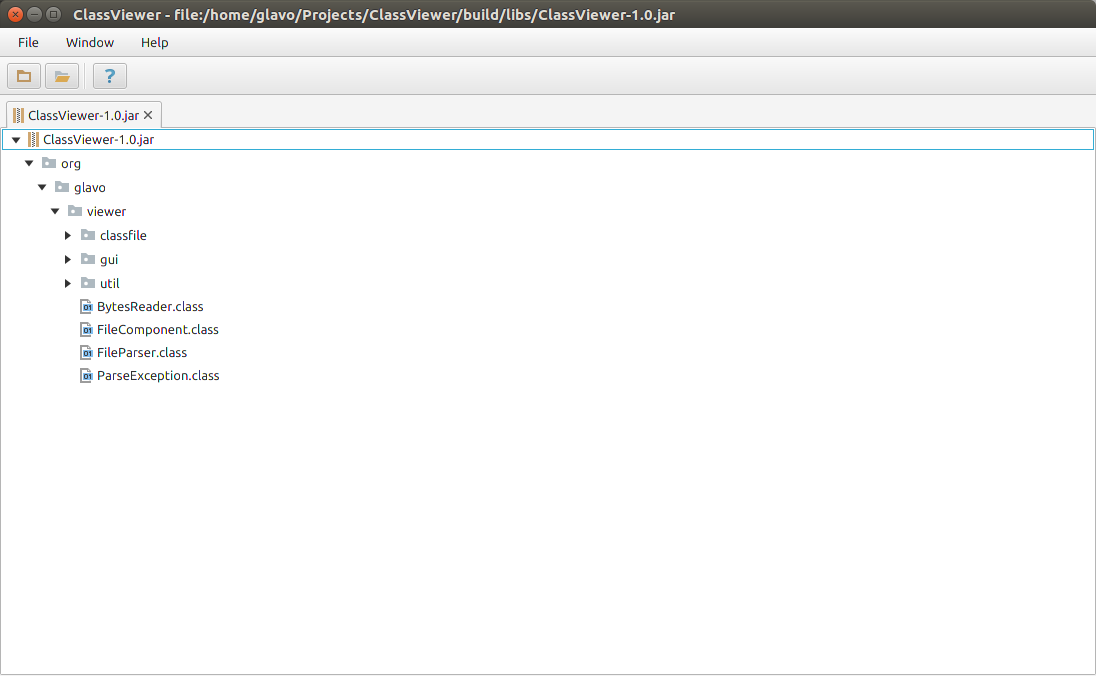
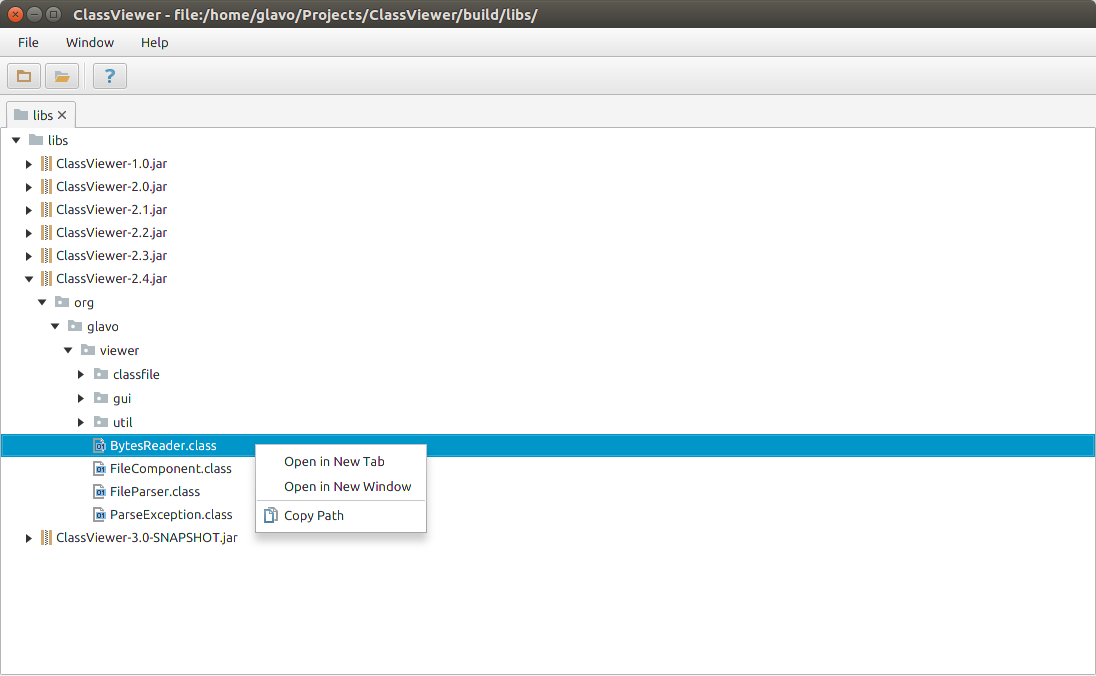
update

Changed region(s): [[0.0, 0.1553, 1.0, 0.8077], [0.4964, 0.0, 0.6204, 0.0311], [0.9927, 0.1864, 1.0, 0.2175]]

diff --git a/src/main/java/org/glavo/viewer/gui/ViewerMenuBar.java b/src/main/java/org/glavo/viewer/gui/ViewerMenuBar.java
@@ -1,0 +1,137 @@
+package org.glavo.viewer.gui;
+
+import javafx.scene.control.Menu;
+import javafx.scene.control.MenuBar;
+import javafx.scene.control.MenuItem;
+import javafx.scene.image.ImageView;
+import org.glavo.viewer.gui.support.ImageUtils;
+import org.glavo.viewer.gui.support.RecentFile;
+import org.glavo.viewer.gui.support.RecentFiles;
+
+import java.net.URL;
+import java.util.function.Consumer;
+
+/**
+ * ClassViewer menu bar.
+ * <p>
+ * File              Window        Help
+ * |-Open >         |-New Window  |-About
+ * |-Java Class...
+ * |-Java Jar...
+ * |-Open Recent >
+ */
+public final class ViewerMenuBar extends MenuBar {
+
+    private final Viewer viewer;
+
+    private Consumer<URL> onOpenFile;
+    private Consumer<URL> onOpenFolder;
+    private Runnable onNewWindow;
+
+    private FileMenu fileMenu;
+    private Menu windowMenu;
+    private Menu helpMenu;
+
+
+    public ViewerMenuBar(Viewer viewer) {
+        this.viewer = viewer;
+        this.fileMenu = new FileMenu();
+        this.windowMenu = new WindowMenu();
+        addHelpMenu();
+
+        getMenus().addAll(
+                fileMenu,
+                windowMenu,
+                helpMenu
+        );
+    }
+
+
+    private void addHelpMenu() {
+        MenuItem aboutMenuItem = new MenuItem("_About");
+        aboutMenuItem.setOnAction(e -> AboutDialog.showDialog());
+        aboutMenuItem.setMnemonicParsing(true);
+
+        Menu helpMenu = new Menu("_Help");
+        helpMenu.getItems().add(aboutMenuItem);
+        helpMenu.setMnemonicParsing(true);
+
+        getMenus().add(helpMenu);
+    }
+
+    public void setOnOpenFile(Consumer<URL> onOpenFile) {
+        this.onOpenFile = onOpenFile;
+    }
+
+    public void setOnOpenFolder(Consumer<URL> onOpenFolder) {
+        this.onOpenFolder = onOpenFolder;
+    }
+
+    public void setOnNewWindow(Runnable onNewWindow) {
+        this.onNewWindow = onNewWindow;
+    }
+
+
+    public class FileMenu extends Menu {
+        MenuItem openMenu;
+        MenuItem openFolderMenu;
+        Menu openRecentMenu;
+
+        FileMenu() {
+            super("_File");
+            this.openMenu = createOpenMenu();
+            this.openFolderMenu = createOpenFolderMenu();
+            this.openRecentMenu = createOpenRecentMenu();
+
+            getItems().addAll(
+                    openMenu,
+                    openFolderMenu,
+                    openRecentMenu
+            );
+            setMnemonicParsing(true);
+        }
+
+        private MenuItem createOpenMenu() {
+            MenuItem openMenu = new MenuItem("_Open...", new ImageView(ImageUtils.openFileImage));
+            openMenu.setOnAction(e -> onOpenFile.accept(null));
+            openMenu.setMnemonicParsing(true);
+            return openMenu;
+        }
+
+        private MenuItem createOpenFolderMenu() {
+            MenuItem openMenu = new MenuItem("Open Folder", new ImageView(ImageUtils.openFolderImage));
+            openMenu.setOnAction(e -> onOpenFolder.accept(null));
+            openMenu.setMnemonicParsing(true);
+            return openMenu;
+        }
+
+        private Menu createOpenRecentMenu() {
+            Menu recentMenu = new Menu("Open _Recent", ImageUtils.createImageView("/icons/clock.png"));
+            recentMenu.setMnemonicParsing(true);
+            this.openRecentMenu = recentMenu;
+            updateRecentFiles();
+            return recentMenu;
+        }
+
+        public void updateRecentFiles() {
+            openRecentMenu.getItems().clear();
+            for (RecentFile rf : RecentFiles.INSTANCE.getAll()) {
+                ImageView icon = new ImageView(rf.type.icon);
+                MenuItem menuItem = new MenuItem(rf.url.toString(), icon);
+                menuItem.setOnAction(e -> onOpenFile.accept(rf.url));
+                openRecentMenu.getItems().add(menuItem);
+            }
+        }
+
+    }
+
+    public class WindowMenu extends Menu {
+        MenuItem newWindowMenu;
+
+        public WindowMenu() {
+            super("_Window");
+            setOnAction(e -> onNewWindow.run());
+
+        }
+    }
+}

diff --git a/src/main/java/org/glavo/viewer/gui/Viewer.java b/src/main/java/org/glavo/viewer/gui/Viewer.java
@@ -2,20 +2,14 @@ package org.glavo.viewer.gui;
 
 import javafx.application.Application;
 import javafx.beans.value.ObservableValue;
-import javafx.event.EventHandler;
 import javafx.scene.Scene;
 import javafx.scene.control.*;
 import javafx.scene.image.ImageView;
-import javafx.scene.input.DragEvent;
 import javafx.scene.input.Dragboard;
 import javafx.scene.input.TransferMode;
 import javafx.scene.layout.BorderPane;
 import javafx.scene.layout.VBox;
-import javafx.scene.text.Font;
-import javafx.scene.text.Text;
-import javafx.stage.DirectoryChooser;
 import javafx.stage.Stage;
-import org.glavo.viewer.gui.directory.DirectoryTreeNode;
 import org.glavo.viewer.gui.directory.DirectoryTreeView;
 import org.glavo.viewer.gui.jar.JarTreeView;
 import org.glavo.viewer.gui.parsed.ParsedViewerPane;
@@ -41,7 +35,7 @@ public class Viewer extends Application {
     public static final int DEFAULT_WIDTH = (int) Toolkit.getDefaultToolkit().getScreenSize().getWidth() / 7 * 4;
     public static final int DEFAULT_HEIGHT = (int) Toolkit.getDefaultToolkit().getScreenSize().getHeight() / 5 * 3;
 
-    public static Cmd cmd = new Cmd();
+    public static Command globalCommand = new Command();
 
     static {
         FontUtils.init();
@@ -51,6 +45,15 @@ public class Viewer extends Application {
     private BorderPane root;
     private MyMenuBar menuBar;
     private MyToolBar toolBar;
+    private Command command;
+
+    public Viewer() {
+        command = globalCommand;
+    }
+
+    public Viewer(Command command) {
+        this.command = command;
+    }
 
     @Override
     public void start(Stage stage) {
@@ -72,10 +75,11 @@ public class Viewer extends Application {
         stage.getIcons().add(ImageUtils.loadImage("/icons/spy16.png"));
         stage.getIcons().add(ImageUtils.loadImage("/icons/spy32.png"));
 
-        if (cmd.files != null) {
-            for (String file : cmd.files) {
+
+        if (command.getArgs() != null) {
+            for (String file : command.getArgs()) {
                 try {
-                    openFileInThisThread(new File(file).toURI().toURL());
+                    openFileInThisThread(new URL(file));
                 } catch (MalformedURLException e) {
                     Log.log(e);
                 }
@@ -256,6 +260,7 @@ public class Viewer extends Application {
     }
 
     public static void main(String[] args) {
-        launch(Viewer.class, cmd.parse(args));
+        globalCommand = new Command(args);
+        launch(Viewer.class, globalCommand.getArgs());
     }
 }

diff --git a/src/main/java/org/glavo/viewer/ViewerPane.java b/src/main/java/org/glavo/viewer/ViewerPane.java
@@ -1,0 +1,16 @@
+package org.glavo.viewer;
+
+import javafx.scene.layout.BorderPane;
+import org.glavo.viewer.gui.Viewer;
+
+public final class ViewerPane extends BorderPane {
+    private final Viewer viewer;
+
+    public ViewerPane(Viewer viewer) {
+        this.viewer = viewer;
+    }
+
+    public Viewer getViewer() {
+        return viewer;
+    }
+}

diff --git a/src/main/java/org/glavo/viewer/gui/support/OpenFileTask.java b/src/main/java/org/glavo/viewer/gui/support/OpenFileTask.java
@@ -19,8 +19,6 @@ import org.glavo.viewer.util.UrlUtils;
 public class OpenFileTask extends Task<OpenFileResult> {
 
     private static final byte[] classMagicNumber = {(byte) 0xCA, (byte) 0xFE, (byte) 0xBA, (byte) 0xBE};
-    private static final byte[] binaryChunkSig = {0x1B, 'L', 'u', 'a'};
-
 
     private final URL url;
 

diff --git a/src/main/java/org/glavo/viewer/gui/Command.java b/src/main/java/org/glavo/viewer/gui/Command.java
@@ -1,0 +1,17 @@
+package org.glavo.viewer.gui;
+
+public final class Command {
+    private String[] args;
+
+    public Command() {
+        this(new String[0]);
+    }
+
+    public Command(String... args) {
+        this.args = args;
+    }
+
+    public String[] getArgs() {
+        return args;
+    }
+}
